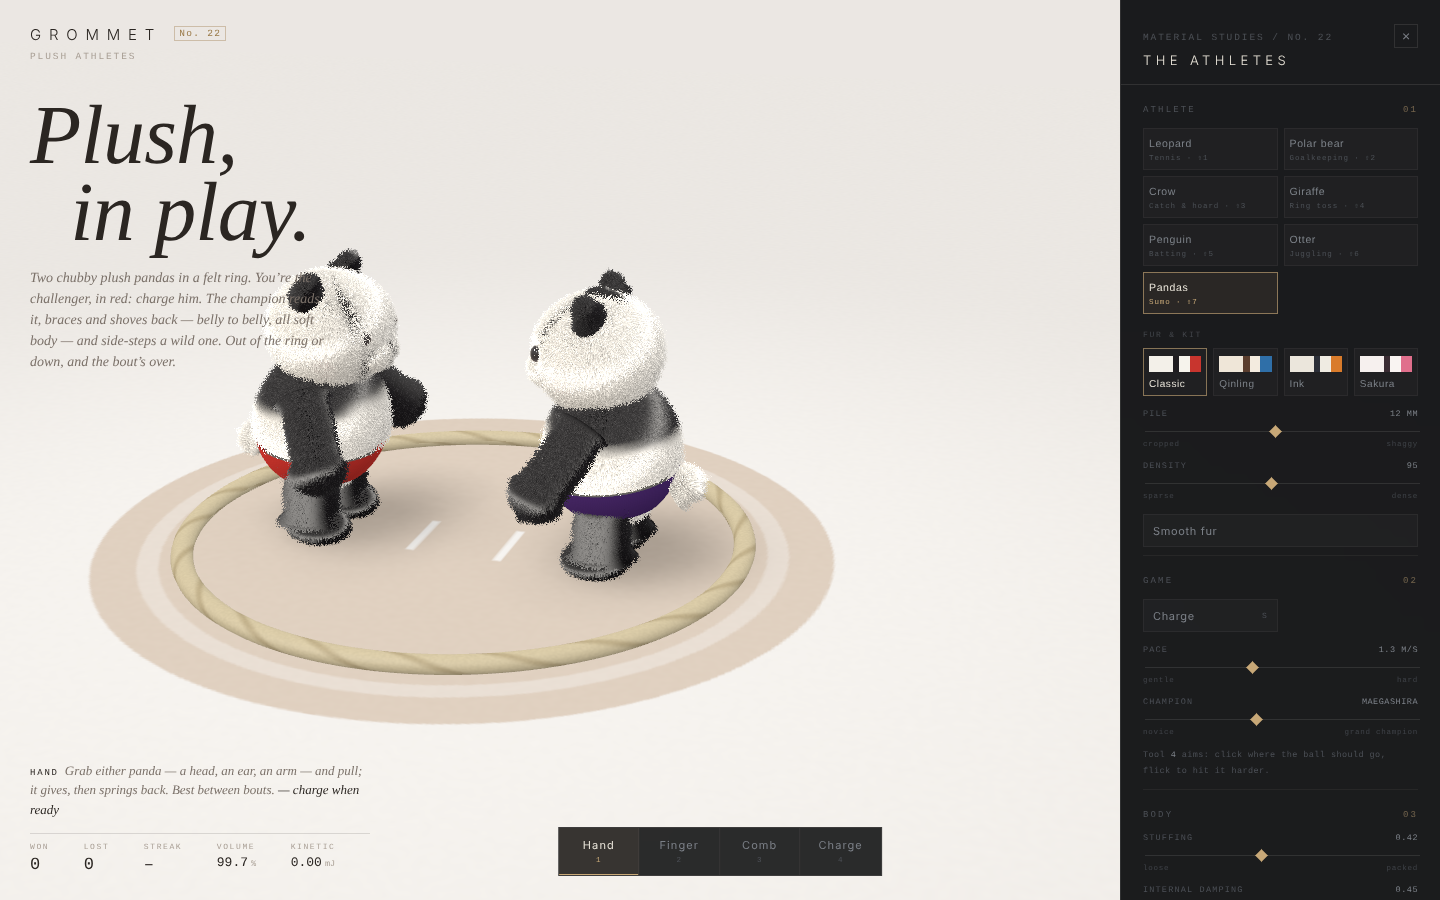
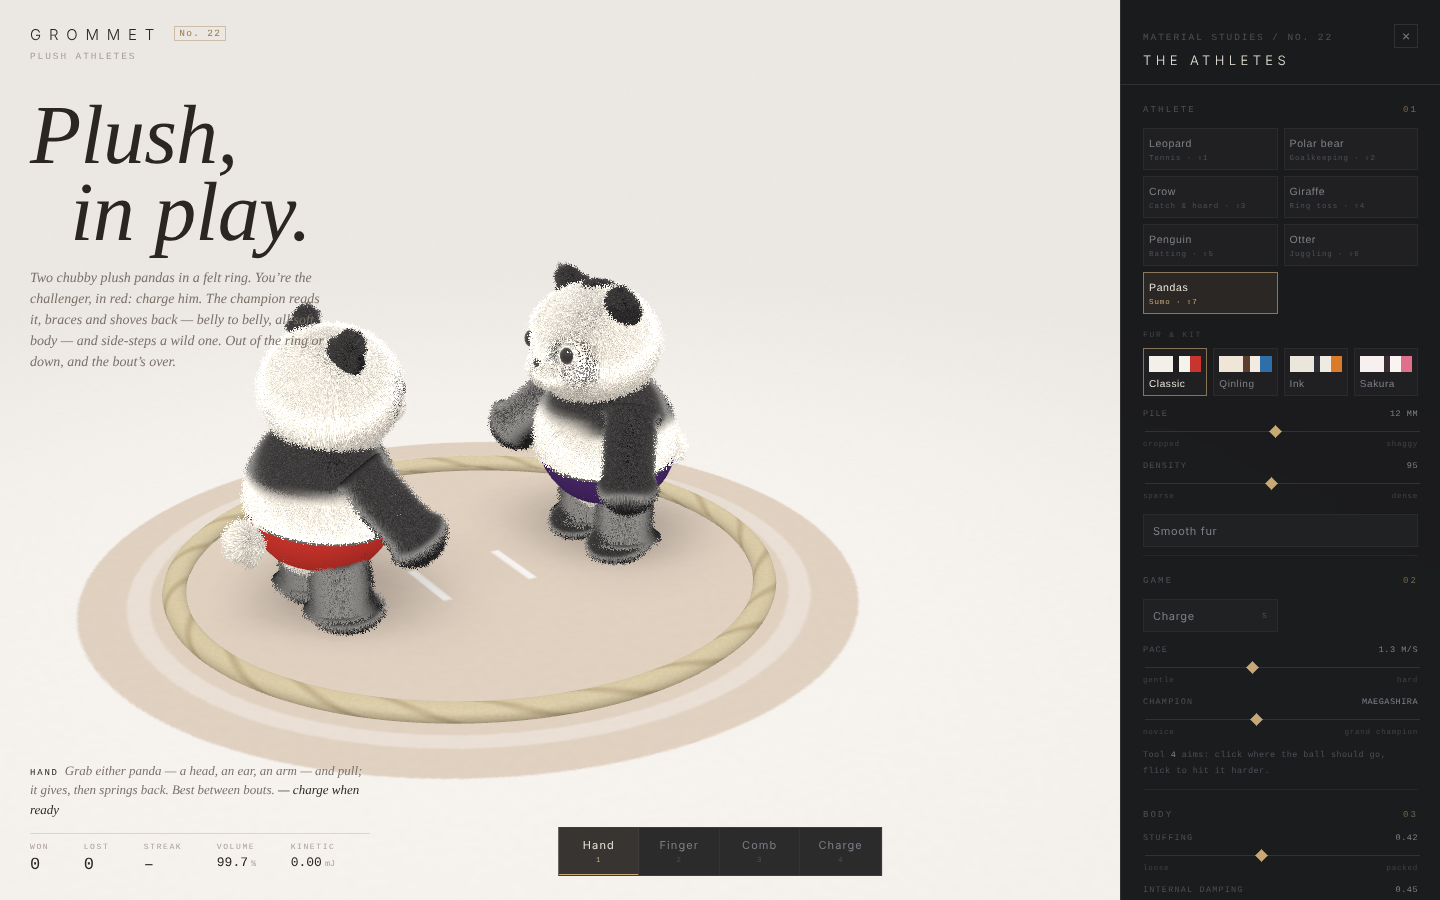
Grommet pandas: faces, rope, dust, camera; README for stage 2; switch-all shot
Claude-Session: https://claude.ai/code/session_01GL9ydXjXs1Fduy8Wq89WsZ

Changed region(s): [[0.0312, 0.28, 0.5938, 0.8711]]

diff --git a/grommet/_source/src/characters.js b/grommet/_source/src/characters.js
@@ -138,7 +138,7 @@ export const CHARACTER_INFO = {
     blurb: 'Two chubby plush pandas in a felt ring. You’re the challenger, in red: charge him. The champion reads it, braces and shoves back — belly to belly, all soft body — and side-steps a wild one. Out of the ring or down, and the bout’s over.',
     hand: 'Grab either panda — a head, an ear, an arm — and pull; it gives, then springs back. Best between bouts.',
     play: 'Click the ring to charge that way; flick to charge harder. Click again in a clinch to shove. Or use Charge (S). Champion (panel) sets his strength.',
-    camera: { az: 0.3, el: 0.36, dist: 19.5, y: 1.3 },
+    camera: { az: -0.55, el: 0.34, dist: 17.5, y: 1.4 },
     face: pandaFace, pattern: pandaPattern, court: dohyo, tint: '#c7a47a',
   },
 };
@@ -726,7 +726,7 @@ function otterMat(g, toPx, k) {
 function pandaFace(g, size, P) {
   const { eyeRing, blob, stitch } = P;
   for (const [head, muzzle] of [['head', 'muzzle'], ['head b', 'muzzle b']]) {
-    eyeRing(head, 0.088, 0.47, 0.22);
+    eyeRing(head, 0.088, 0.47, 0.13);
     g.globalCompositeOperation = 'source-over';
     nosePad(g, P, muzzle, 0.5, 0.31, 0.16, 0.17, 'rgb(0,0,0)');
     g.globalCompositeOperation = 'lighter';
@@ -742,9 +742,11 @@ function pandaFace(g, size, P) {
 function pandaPattern(g, size, P) {
   for (const head of ['head', 'head b']) {
     for (const s of [-1, 1]) {
-      P.blob(head, 0.5 + s * 0.095, 0.5, 0.36, 0.26, 'rgb(255,0,0)', -s * 0.5);
+      // an oval, longer down and out from the eye than above it
+      P.blob(head, 0.5 + s * 0.1, 0.49, 0.38, 0.33, 'rgb(255,0,0)');
+      P.blob(head, 0.5 + s * 0.12, 0.54, 0.3, 0.26, 'rgb(255,0,0)');
       g.globalCompositeOperation = 'destination-out';
-      P.blob(head, 0.5 + s * 0.088, 0.47, 0.16, 0.16, 'rgb(255,0,0)');
+      P.blob(head, 0.5 + s * 0.088, 0.47, 0.135, 0.135, 'rgb(255,0,0)');
       g.globalCompositeOperation = 'lighter';
     }
   }

diff --git a/grommet/_source/src/athletes/panda.game.js b/grommet/_source/src/athletes/panda.game.js
@@ -249,12 +249,21 @@ export class PandaGame extends Athlete {
     const watch = this.state !== 'end' || this.t < 0.6;
     A.attend(watch ? B.headCentre() : null, dt);
     B.attend(watch ? A.headCentre() : null, dt);
+    this.daze = Math.max(A.daze, B.daze);
     this.gaze = A.att > 0.02 ? { at: B.headCentre(), amount: A.att } : null;
     this.gaze2 = B.att > 0.02 ? { at: A.headCentre(), amount: B.att } : null;
     this.pose.apply([...A.bones((k, d) => this.armBone(k, d)), ...B.bones((k, d) => this.armBone(k, d))]);
   }
 
   gazeOf(j) { return j === 0 ? this.gaze : this.gaze2; }
+
+  /* the page puts the stars of a daze over whichever panda is dazed */
+  headCentre(out = [0, 0, 0]) {
+    const r = this.chal.daze > this.champ.daze ? this.chal : this.champ;
+    const h = r.headCentre();
+    out[0] = h[0]; out[1] = h[1]; out[2] = h[2];
+    return out;
+  }
 
   _think(dt) {
     const A = this.champ, B = this.chal, st = this.state;

diff --git a/grommet/_source/src/athletes/panda.rig.js b/grommet/_source/src/athletes/panda.rig.js
@@ -76,7 +76,7 @@ function buildOne(b, k, champion) {
   b.grid({ name: name('muzzle'), cloud: k, c: [0, 2.32, 0.66], r: [0.31, 0.22, 0.24], B: rotX(0.12), U: 32, V: 22, pile: () => 0.55 });
   if (champion) {
     // the topknot: a little black bun on the crown, tipped forward
-    b.grid({ name: 'topknot', cloud: k, c: [0, 3.12, 0.02], r: [0.13, 0.1, 0.22], B: rotX(-0.25), U: 18, V: 12, accent: () => 1, pile: () => 0.6 });
+    b.grid({ name: 'topknot', cloud: k, c: [0, 3.22, 0.0], r: [0.16, 0.12, 0.27], B: rotX(-0.25), U: 18, V: 12, accent: () => 1, pile: () => 0.35 });
   }
 
   // round black ears

diff --git a/grommet/_source/README.md b/grommet/_source/README.md
@@ -3,7 +3,8 @@
 Readable source for **Grommet** (Crucible No. 22): plush athletes, each a soft
 body under shell fur, each playing one little sport against you. Stage 1 is the
 **leopard** (tennis) and the **polar bear** (goalkeeping); then the **crow**
-(catch & hoard) and the **giraffe** (ring toss).
+(catch & hoard) and the **giraffe** (ring toss). Stage 2 adds the **penguin**
+(batting), the **otter** (juggling) and two **pandas** (sumo).
 
 This tree lives on the `grommet-source` branch only. What ships to `main` is
 the single built file, `grommet/index.html`.
@@ -15,7 +16,7 @@ npm run build            # → final.html (self-contained; the build fails on an
 node tools/shots.mjs     # headless Chromium screenshots → shots/ (WebGL 2 on SwiftShader)
 ```
 
-Open `final.html?character=leopard|bear|crow|giraffe` (add `&webgl` to force the WebGL 2
+Open `final.html?character=leopard|bear|crow|giraffe|penguin|otter|panda` (add `&webgl` to force the WebGL 2
 path). Copy it to `grommet/index.html` on the release branch to publish.
 
 ## What came from Flock
@@ -67,11 +68,19 @@ src/athletes/
   crow.game.js      catch & hoard: tosses, the beak, the lunge, the nest
   giraffe.rig.js    four legs, a long neck chain, the head a second cloud on it
   giraffe.game.js   ring toss: tracking, the neck's reach, the stack, the shake
+  penguin.rig.js    an egg of a body, flat flippers (the right one holds the bat), felt cap and feet
+  penguin.game.js   batting: the count, the swing, the bat's contact, the whiff-spin
+  otter.rig.js      a pear sat on its bottom (a seat ring, no feet), short arms, flat tail
+  otter.game.js     juggling: paws to the catch, the scoop, the throw, the tumble
+  panda.rig.js      two pandas in one rig (cloud 0 the champion, cloud 1 the challenger)
+  panda.game.js     sumo: Rikishi per panda, the charge, the clinch, the call, the reset
 ring.js             a felt ring: a rigid torus (impulse contacts; no three.js)
 characters.js       per-athlete colours, eyes, face, pattern, court, words
 props.js            what they play with (three.js)
 crowprops.js        the crow's beak, nest and treasures (three.js)
 giraffeprops.js     the giraffe's felt rings (three.js)
+otterprops.js       the otter's shells and pebbles (three.js)
+pandaprops.js       the dohyo rope and the stomp dust (three.js)
 ```
 
 ### The crow (how he differs)
@@ -137,7 +146,94 @@ giraffeprops.js     the giraffe's felt rings (three.js)
 - `react: true` (memory pushes the body back): with it off, swinging the neck
   over shoved him across the floor.
 
-### Adding one (stage 2: penguin batter, otter juggler, panda drummer)
+### The penguin (how he differs)
+
+- **The bat** is the racquet idea again: a rigid body gripped in the right
+  flipper (`batFrame`: the flipper's last points give the handle axis, an
+  eased wrist cocks it), and every swing is that straight-sewn flipper
+  turned about the shoulder. Contact is the ball against the bat's capsule
+  (it thins from barrel to handle, `batR`) with the bat's own velocity at
+  the contact point, swept over the substep. Nothing is steered: the call
+  comes from the ball's flight off the bat — outside the foul lines, back
+  over him or topped into the floor by the plate is foul; fair and carrying
+  past `FENCE` a home run; fair and short a hit.
+- **Aiming low**: the stuffed flipper rides high through a fast swing (more
+  so low down), so his plan aims under it by a learned line (`AIM_FIX`),
+  measured with the bat swinging through without the ball.
+- **The count**: pitches well off the plate he takes (ball); the rest he
+  swings at, and chases a few near ones. Three strikes or four balls, a new
+  count; fouls count as strikes up to two.
+- **The whiff-spin** is a capped velocity servo on his yaw that makes one
+  full turn. Two things had to give for it: the felt soles' static grip
+  (`restV`) is off while he turns, and the stuffing's rotation estimate is
+  turned on by each substep's spin — shape matching toward a frame refined
+  from the last substep's lags a fast turn, and that lag is a brake (it held
+  him to a sixth of the speed asked).
+
+### The otter (how he differs)
+
+- **Sitting up**: no legs to stand on. Cloud 0 is a long pear sat on a flat
+  ring of points (`seat`), a wider footprint than any biped's; his hind legs
+  are short inCloud chains along the floor, his flat tail lies behind.
+- **Paws** are arm chains re-posed toward eased aims (three critically
+  damped springs per paw, so a new aim is a reach, not a snap) and pulled
+  there by a capped, damped spring on their last two points.
+- **The cascade** is event-driven: a paw meets the next thing coming down to
+  it (where the arc crosses paw height, clamped to his reach), closes on it
+  inside `CATCH_R`, carries it through a scoop, and throws it to come down
+  where the other paw waits, `TF` later; a paw still holding when the next
+  is about to land throws early. Juggled things are little `Ball`s with no
+  plush collision while they're his; loose ones (tumbling, missed) collide
+  both ways with him, the mat and each other, and a pebble squeezed out from
+  between his paws is soaked up (capped at 5 u/s) rather than shot off.
+- **The tumble**: five at once, or one he can't reach, and everything lets
+  go — the ones in his paws pop up and drop back onto his belly and legs.
+  His lean is eased: the balance pull is stiff, so a jump in what it pulls
+  toward was a kick (KE 1200 out of nowhere).
+- `stones`, not `items`: `main.js` reads `game.items` as the crow's.
+
+### The pandas (how they differ)
+
+- **Two toys, one rig**: each panda is built facing +z at the origin by the
+  same code, then turned and moved to its mark (`place()`: points, grid
+  centres and bases, chain frames). One soft body, one fur mesh, one draw;
+  `rig.bodies` lists which points are whose. `SoftBody` then (only for such
+  a rig): leaves cross-toy pairs out of the all-pairs list and collides the
+  two through a box-overlap broadphase (`_collideBodies`, which also counts
+  `touching`); damps each toy about its own mean velocity (`_finishBodies`
+  — one panda's charge isn't the other's jiggle); and skips the head-on-
+  torso memory for a cloud with no parent. `Pose` takes several posed
+  clouds; `balance`, `rightUp` and `settle` take a cloud index. With no
+  `bodies` every line of that is skipped: the other athletes run exactly
+  the code they did.
+- **Rikishi**: each panda's frame (`cfg.R`, its rest turn), attention,
+  arms (hang / reach / up / out), lean, balance strength, drive. Pose bones
+  and leans are written in his own frame and turned into the rest frame.
+- **Strength** is a velocity servo on his stuffing with a capped
+  acceleration (`_drive`). Contact is the soft body's own collisions: who
+  pushes harder moves the other. Locked together, each grips the other's
+  mawashi (`_grip`: their motion across the line between them is shared,
+  equal and opposite) — without it the pair orbited each other and the
+  bout became a dance. A clinch needs real contact (`touching`) and both
+  facing each other: a charge brushing past a side-step isn't one, and a
+  charging challenger faces where he runs.
+- **The champion** meets a charge, or side-steps a reckless one (all-out,
+  or well off the line), circles a little at the rope, and belly-bumps
+  when your push sags. Difficulty scales his push; his form varies a little
+  bout to bout. Your push tires (`stamina`), so a bout always ends; the
+  judges decide at `DECIDE_T` regardless.
+- **The call**: a panda loses when any of his points touches the floor
+  outside the rope, anything but a sole touches inside it, or he tips over.
+- **After**: the winner bounces with his arms up; the loser sits back,
+  dazed (gently: a stiff lean back fought the floor and thrashed). Getting
+  up is `rightUp` with the soles' static grip off (it snagged him half-way,
+  and switching the balance pull on at 45° then blew him apart — balance
+  only comes back once he's upright). Then both walk to their marks and the
+  shiko plays (a roll onto one leg, a lift, a stomp, dust; then the other).
+- Two pandas carry twice the vertices, so they get 40 shells (`shells` in
+  their character info) instead of 64.
+
+### Adding one
 
 1. **Rig** — `src/athletes/NAME.rig.js` exporting `buildNAME()`:
    - `standingBody(b, {...})` for a biped (or your own clouds for anything
@@ -191,6 +287,23 @@ shakes and every ring comes off and ends at rest on the floor (bounded
 energy, ring speeds, no frame jumps, back home upright); a ring dropped hard on
 his head is a clonk that sets the shake off; misses bounce, roll and lie
 flat at rest, and Collect clears them; a 30 s auto run never runs away.
+Penguin: well-timed pitches (low, middle, high) are hit fair and forward off
+the barrel; early, late or way off is never a clean hit; a whiff spins him a
+full turn (no frame jumps, bounded energy) and he wobbles back to face the
+pitcher on his mark; one well off the plate is taken for a ball, and the
+count adds up (strike three resets it); an inning of random pitches never
+runs away. Otter: two tossed in stay juggled paw to paw for 5 s (at least 8
+throws, nothing below his paws, bounded energy); three go round; five is too
+many and everything tumbles, bouncing off him, coming to rest on the mat
+without flying off, and he looks at the floor; a toss out of reach drops
+everything. Pandas: the shiko comes first (a foot lifted, four stomps, dust);
+a strong well-aimed charge drives the champion out at two difficulties; a
+weak one is met and repelled; a reckless one is side-stepped and carries the
+challenger out; six mixed bouts each end with exactly one winner inside
+16 s, the two never closer than a body apart, stuffing never sinking more
+than 60% of a touching distance into the other, bounded energy; after a bout
+the winner's arms go up and the loser sits back dazed, and both end on their
+marks, upright, facing each other, at rest.
 
 There is no GPU in the build sandbox: screenshots are SwiftShader, and frame
 rate / WebGPU behaviour have to be checked on real hardware.
